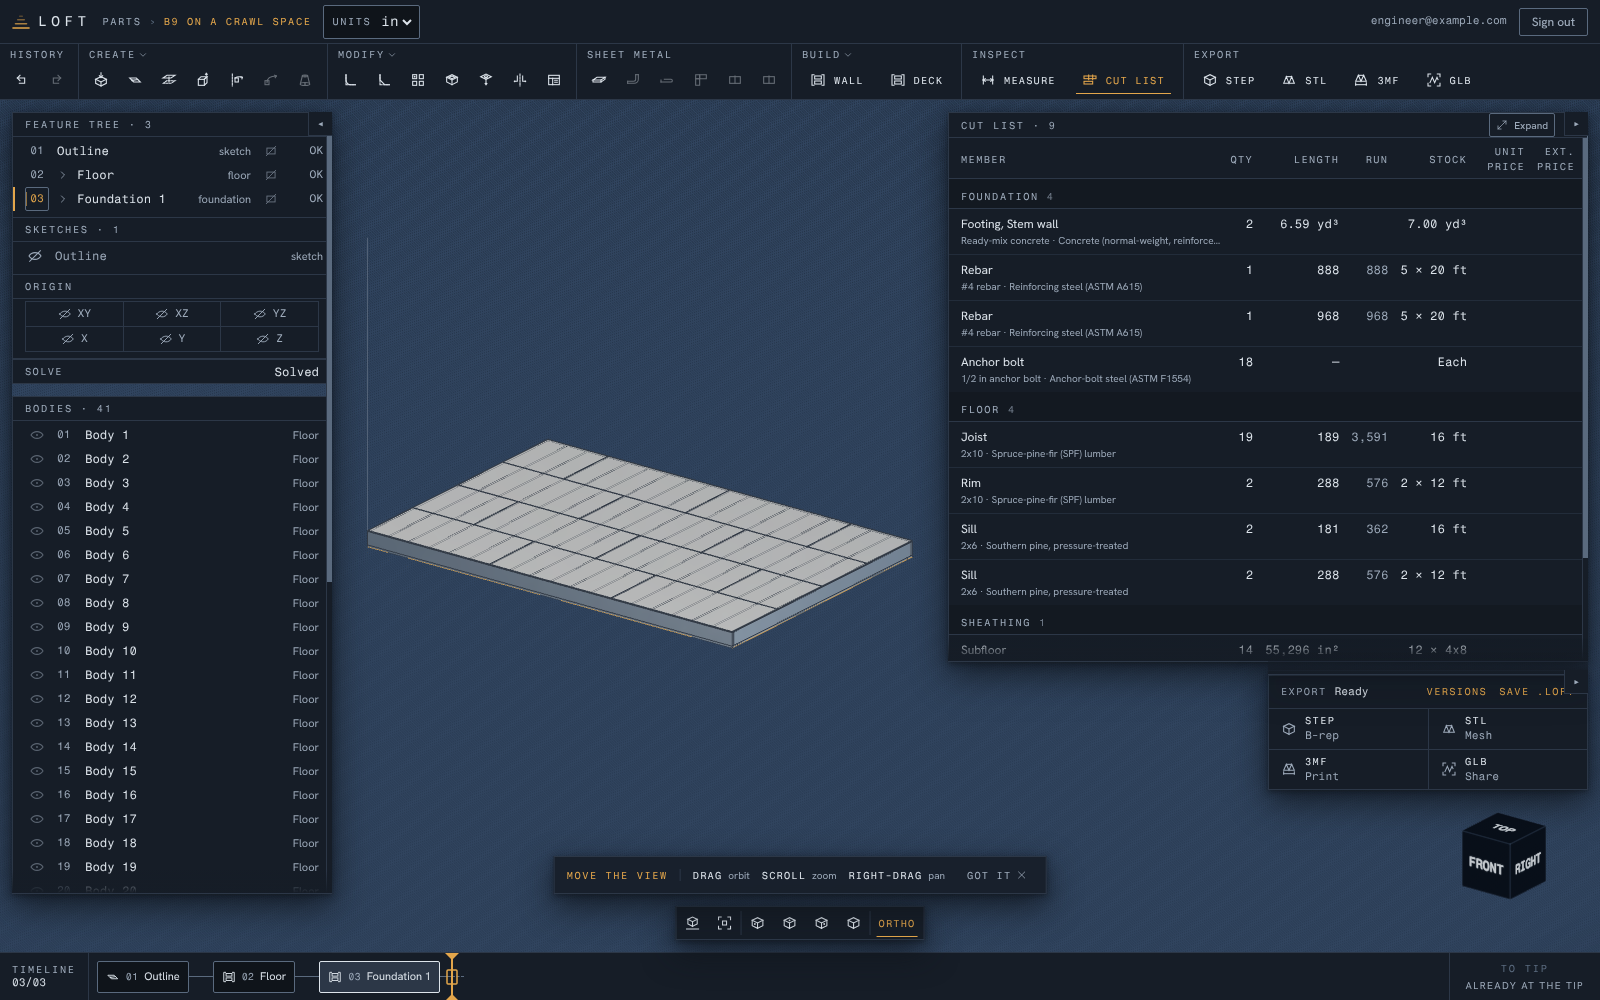
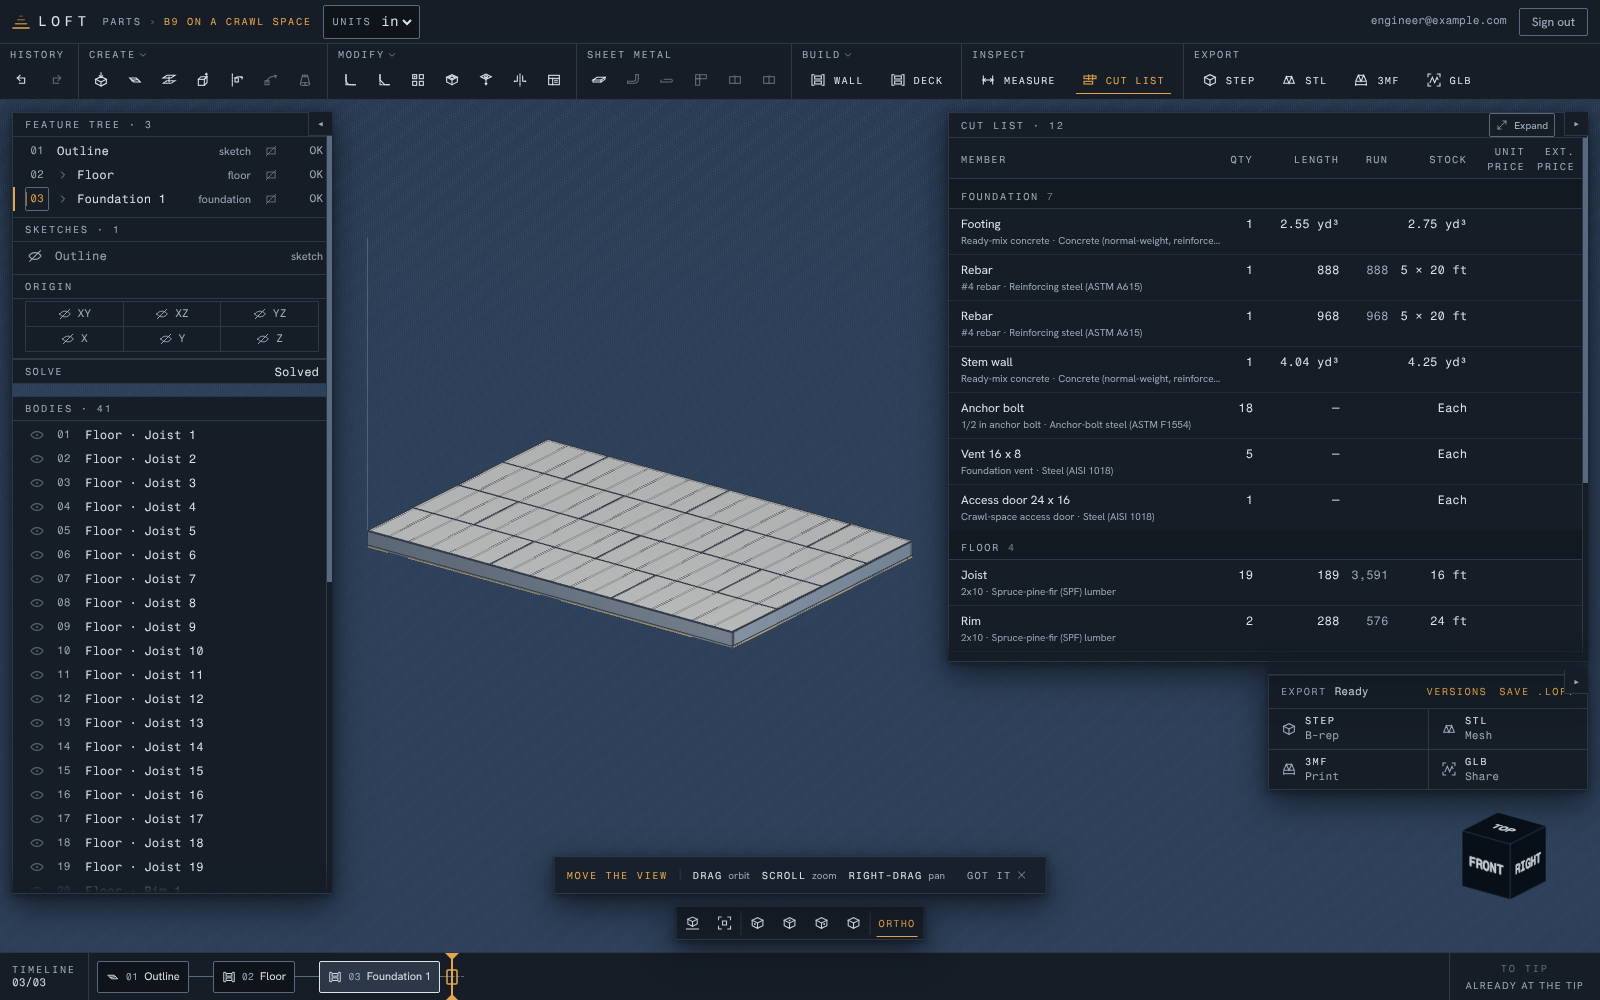
docs(foundation): log the per-pour and vent-line calls; B9 takeoff screenshot
VISION's delegated log records the 2026-10-28 call (a delivery per pour,
reversing CRAWL-SPACE's one line; vents and access door Each); RESEARCH
§23 records loft.foundation 1.1.0; buildings.md notes B8's one pour is
unchanged under per-pour ordering. Screenshot from e2e crawl-space.

Claude-Session: https://claude.ai/code/session_0187m1Up5oMSqhzNuRp9tgBJ

diff --git a/docs/VISION.md b/docs/VISION.md
@@ -167,7 +167,7 @@ built from Build-group plugins with no member drawn by hand:
 - **B5 shed on a floor:** B2's walls on a framed 2x8 floor, with OSB wall sheathing and a plywood subfloor, priced per sheet.
 - **B6 timber frame:** two 8x8 bents with tie beams and girts, every joint a pegged mortise and tenon.
 - **B7 small house:** 24 x 16 ft, 2x6 walls on a 2x10 floor, a door, four windows, a 6/12 gable, sheathed and priced to the last line: a gap-finding round. Round of 2026-10-22 (caf0aa8, e2e `house-b7.spec.ts`): it builds from 12 Build features. That took 87 gestures, with 37 values typed and 8 of them worked out by hand. The 217 members are exactly the independent script's, and the STEP's 217 solids measure 264 895.4795 in³ as the script gives. All three edits regenerate as the script says, with the volume 267 494.1504 in³ at 8/12. Since CUT-LIST-LONG-STOCK (30ac7b7) the members over 20 ft are spliced, and B7 prices to the last line at $2,868.87. Since BUILDING-OUTLINE (on main at fe9d2b5) B7 builds from one outline sketch, and 24 -> 28 ft is one dimension edit, down from 8 feature edits (e2e `house-b7.spec.ts`; not yet a qa-tester re-run). Doors and windows are priced as units since OPENING-UNITS (6abeb20).
-- **B8-B10 foundations and partitions** (founder 2026-10-23, `buildings.md`): B7 on a thickened-edge slab (6.62 yd³), on a crawl space with a stem wall and footing (6.59 yd³), and with two 2x4 partitions, a door and ladder backing. Built in batch49 (a9b15e6; goldens `b8-slab-house`, `b9-crawl-space`, `b10-partitions`); B9's vents and access door are not yet listed (FOUNDATION-TAKEOFF), and no gable has ceiling joists (CEILING-JOISTS).
+- **B8-B10 foundations and partitions** (founder 2026-10-23, `buildings.md`): B7 on a thickened-edge slab (6.62 yd³), on a crawl space with a stem wall and footing (6.59 yd³), and with two 2x4 partitions, a door and ladder backing. Built in batch49 (a9b15e6; goldens `b8-slab-house`, `b9-crawl-space`, `b10-partitions`); B9's 5 vents and access door are listed Each and its two pours ordered 2.75 + 4.25 yd³ from `loft.foundation` 1.1.0 (FOUNDATION-TAKEOFF), and no gable has ceiling joists (CEILING-JOISTS).
 - **C1-C4 casework** (founder 2026-10-23, `casework.md`): a frameless B24 to the panel, a kitchen run on B10's wall, a melamine vanity, and a bath vanity with a drawer bank on B10's partition, each with panels by sheet, banding by the foot and hinges and slides Each. C1-C3 built in batch49 (goldens `c1-*`, `c2-*`, `c3-*`), C2 on B7's wall; C2 on B10 and C4 are CASEWORK-B10.
 
 ## Daily-driver scorecard
@@ -203,6 +203,7 @@ main `01e49e2` on 2026-10-09 and updated from shipped commits on
 - Cloud SaaS billing. Self-hosting comes first.
 
 ## Delegated decisions
+- 2026-10-28 (orchestrator, FOUNDATION-TAKEOFF): each pour is ordered as its own delivery, rounded up to 1/4 yd³ after its own allowance, reversing CRAWL-SPACE's single concrete line (a crew pours and inspects the footing before the stem; B9 buys 2.75 + 4.25 = 7.00 yd³, B8's one pour still 7.00); a crawl space's foundation vents and access door are cut-list lines priced Each, one per size, as in Chief's materials list.
 - 2026-10-23 (orchestrator): concrete is ordered with a 5% waste allowance by default, editable on the slab and foundation (crews order over: spillage, sub-grade variance), then rounded up to 1/4 yd³; cabinets live in the house part under a Casework system for now, a separate casework part later if shops ask.
 - 2026-10-21 (founder): do not build or fork OCCT; stay on the published, pinned OCP wheels, work around OCCT faults and report them upstream with minimal repros.
 

diff --git a/docs/RESEARCH.md b/docs/RESEARCH.md
@@ -3029,6 +3029,24 @@ and reframe it, a material per member, and a cut list that is always current.
     Golden `b9-crawl-space`: b7-outline's 217 bodies plus the footing (10
     faces) and the stem (33 faces), 219 in all, matched solid for solid to
     an independent build123d script on STEP.
+- **Decided for the foundation takeoff** (FOUNDATION-TAKEOFF, 2026-10-28;
+  Chief Architect's materials list carries foundation vents and the access
+  door Each, and a crew pours and inspects the footing before the stem):
+  - *A delivery per pour.* The cut list's concrete lines are one per member
+    (Footing, Stem wall, Slab), and a line orders the sum of each pour's
+    `net x (1 + waste)` rounded up to 1/4 yd³, never the sum rounded once,
+    so a placed part's copies are a truck each too. B9: 2.55 -> 2.75 and
+    4.04 -> 4.25, 7.00 in all as before; B8's one pour still 7.00.
+  - *Vents and the access door are listed, by size.* `loft.foundation`
+    1.1.0 builds exactly 1.0.0's members and adds `foundation_openings` to
+    the stem's metadata (item, width, height, quantity per size, as cut);
+    the cut list lists one Each line per item and size ("Vent 16 x 8",
+    "Access door 24 x 16"), priced by the book's `foundation_vent` and
+    `crawl_access_door` keys (steel, no stock or sheet; migration 0029).
+    The units sit on the pour, as its bolts do, because a cut makes no body
+    for the cut list to read. A stored 1.0.0 foundation is pinned byte for
+    byte (`loft-plugins/tests/goldens/foundation-v1.0.0-b9-members.json`)
+    and lists no units until it is updated to 1.1.0.
 - **Order of work** (BACKLOG "Plugins and buildings"): registry with the
   twist as its first consumer, UI, lumber materials, cut list, then the deck,
   walls, hosted windows and doors, and roof against

diff --git a/docs/reference-parts/buildings.md b/docs/reference-parts/buildings.md
@@ -420,7 +420,8 @@ with no Floor: the walls stand on the slab's top at Z 0 (PT bottom plates).
 - **Thickened edge:** a 12 in ring inside the outline, Z -12..-4
   (55 296 - 44 352 = 10 944 in² x 8 = 87 552 in³), square inner face.
 - **Concrete:** 308 736 in³ = **6.62 yd³; x 1.05 = 6.95, so 7.00
-  bought** (6.75 with no allowance).
+  bought** (6.75 with no allowance): one pour, so one delivery, and the
+  same under per-pour ordering (FOUNDATION-TAKEOFF).
 - **Rebar:** 2 #4 bars in the edge, one 3 in above its bottom (Z -9) and one
   3 in below the slab top (Z -3), each on the ring's centreline 6 in inside
   the outline: 2 loops of 912 (76 ft), **10 sticks**.
@@ -460,8 +461,8 @@ top at Z 0, flush with its outside face.
   (FOUNDATION-TAKEOFF): footing 2.55 yd³ x 1.05 = 2.67, **2.75**; stem
   188 544 in³ = 4.04 x 1.05 = 4.24, **4.25**; 7.00 bought (CRAWL-SPACE
   shipped them on one line: 6.92, 7.00).
-- **Vents and access** are listed Each (FOUNDATION-TAKEOFF): 5 foundation
-  vents 16 x 8 and 1 access door 24 x 16.
+- **Vents and access** are listed Each (FOUNDATION-TAKEOFF, `loft.foundation`
+  1.1.0): 5 foundation vents 16 x 8 and 1 access door 24 x 16.
 - **Rebar:** 2 #4 bars 3 in above the footing's bottom and 3 in in from each
   face: loops of 968 (80.67 ft) and 888 (74 ft), **10 sticks**.
 - **Anchor bolts** cast into the stem for the floor's sills (288, 288, 181,
